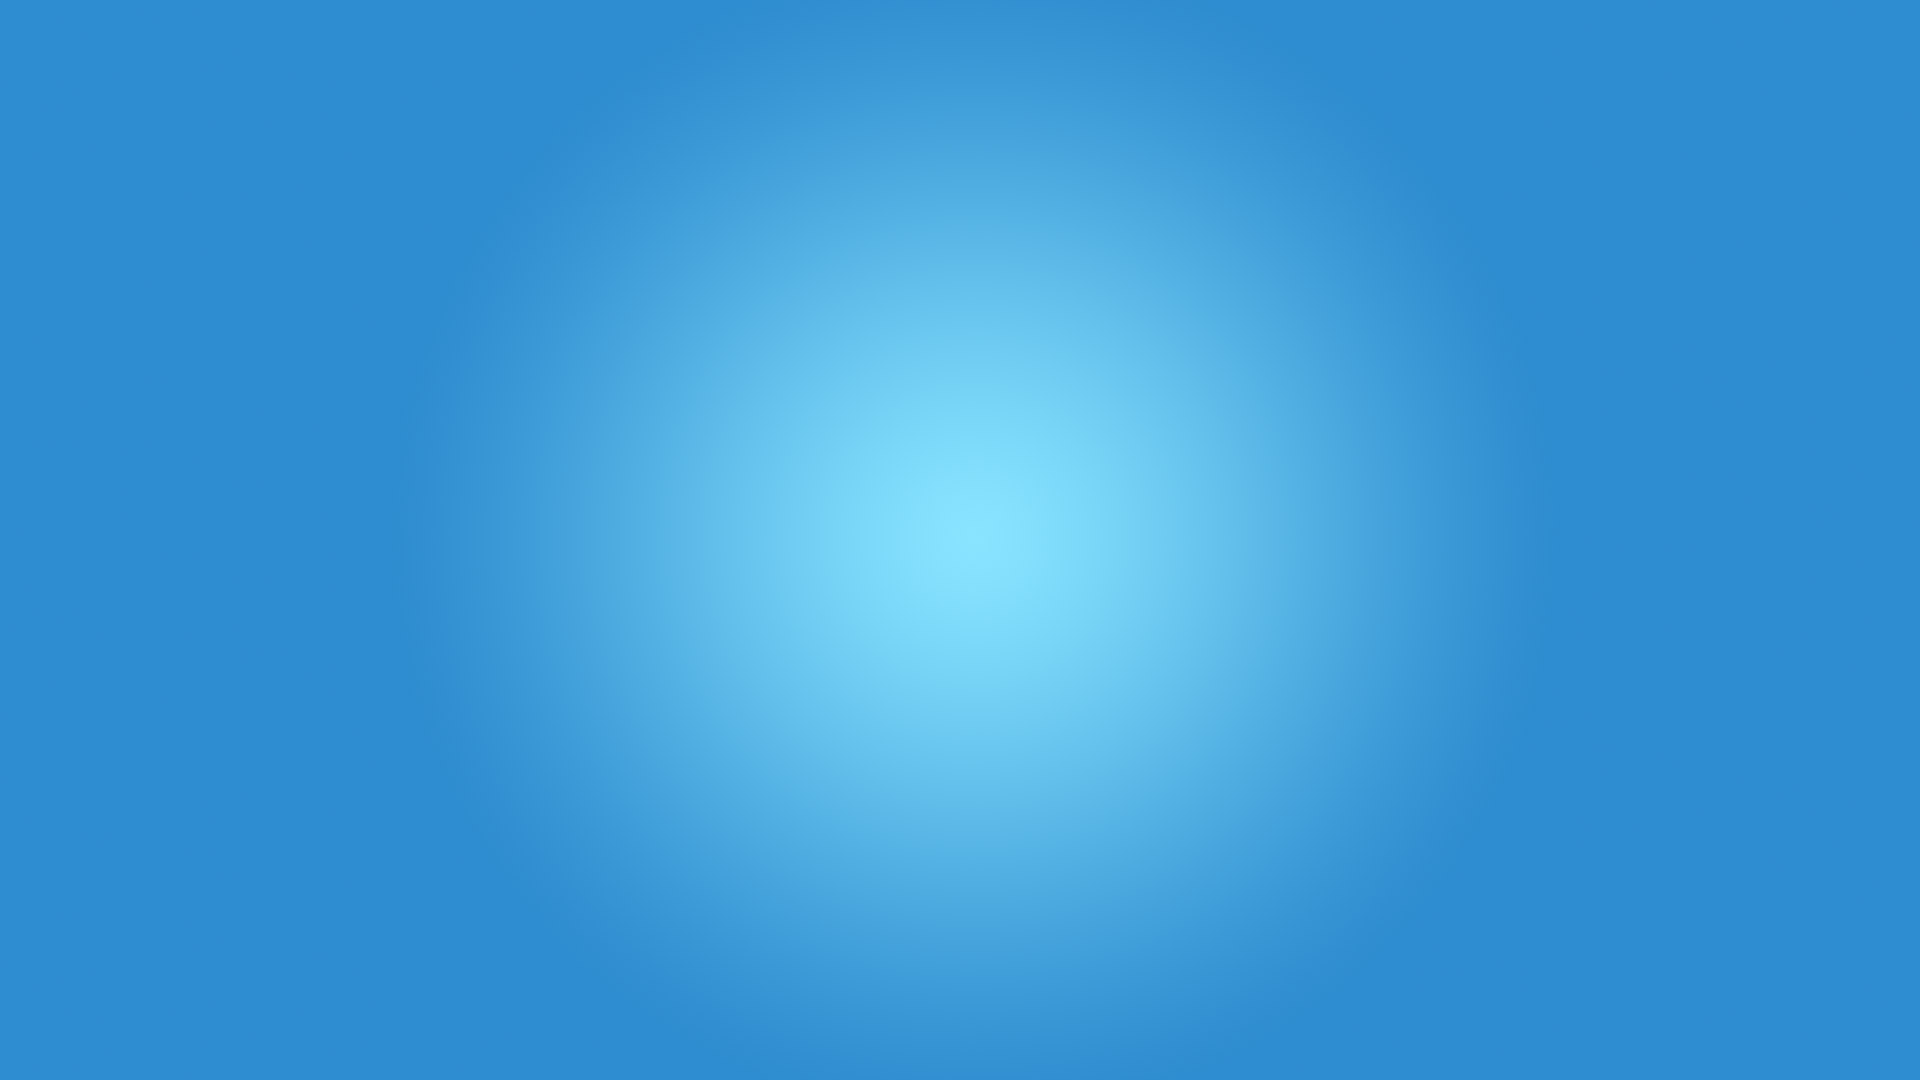
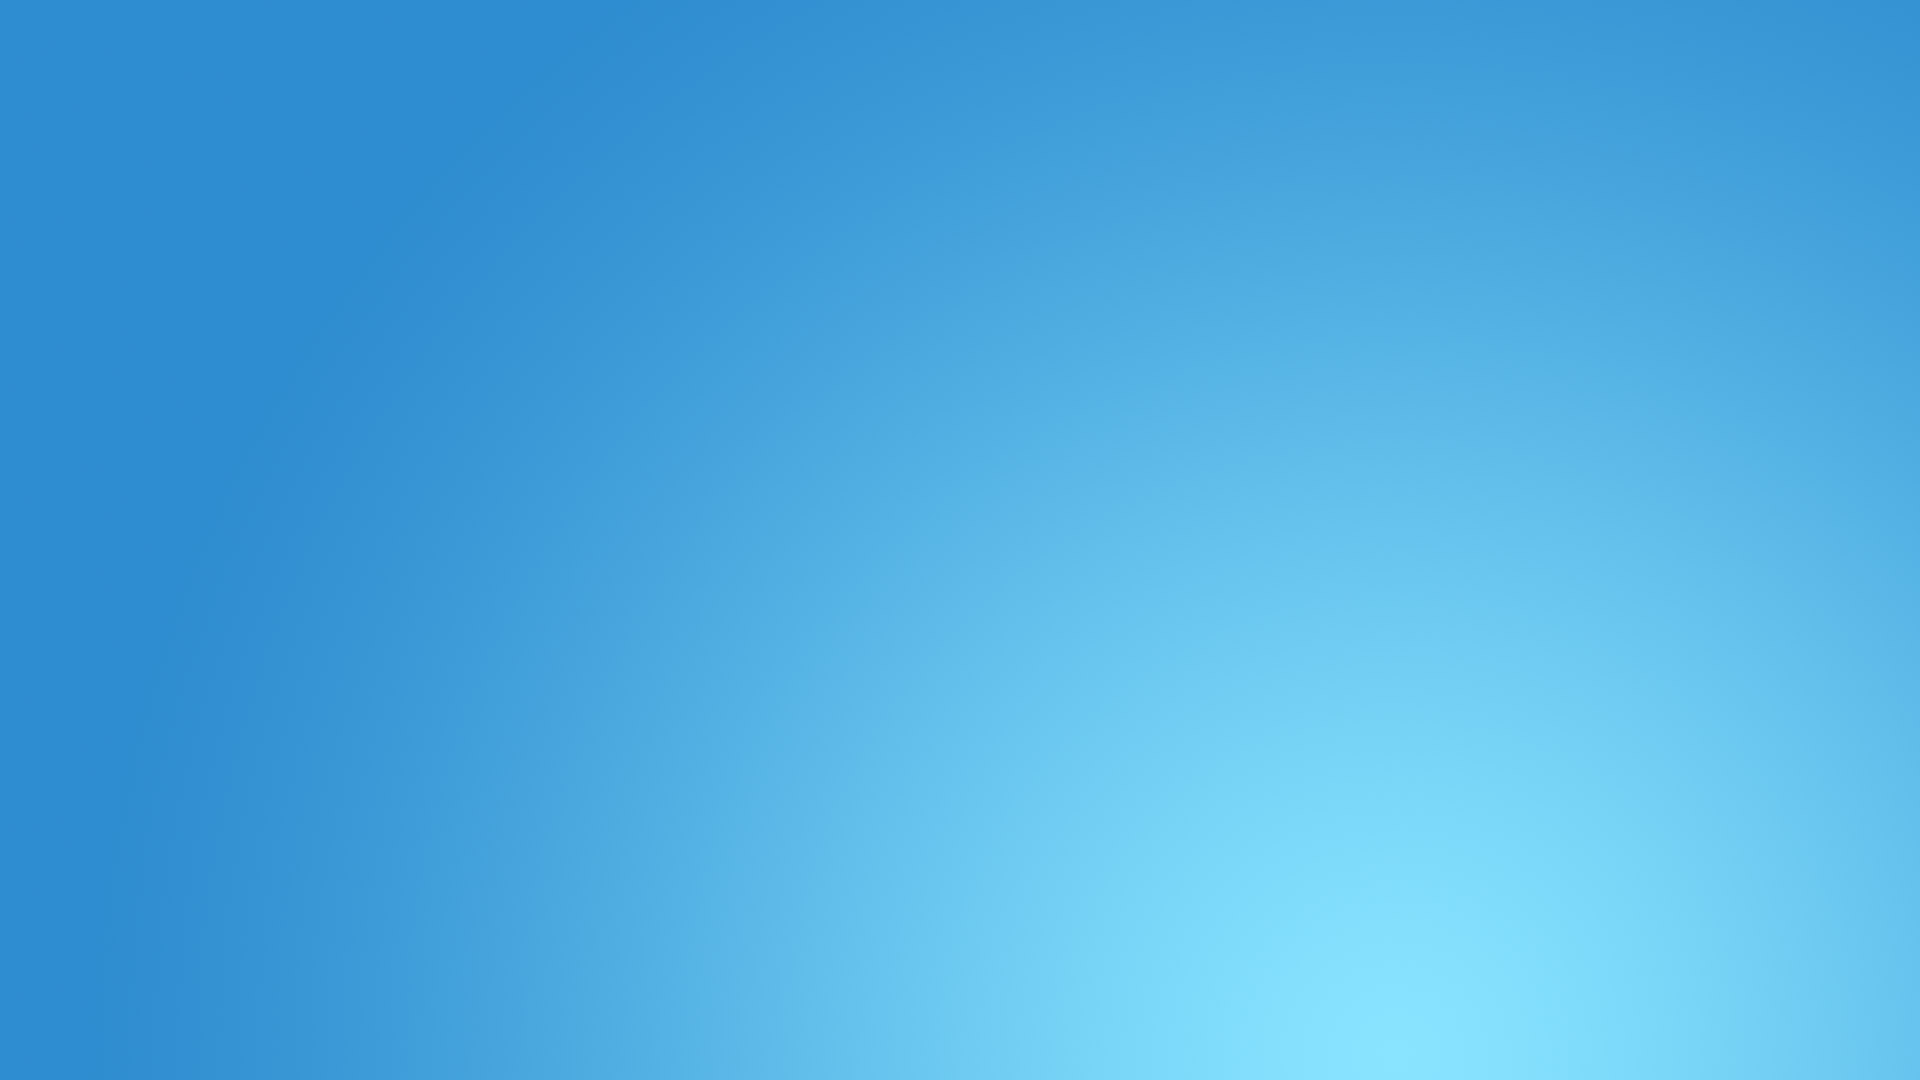
Personal Page changed
Modify the method specified location

diff --git a/personal/index.html b/personal/index.html
@@ -7,8 +7,9 @@
     <link rel="icon" href="resources/favicon.ico" />
     <style type="text/css">
         body {
-            background-image: url(http://voyager2718.github.io/personal/resources/background.jpg);
-            background-repeat:repeat;
+            background-image: url(resources/background.jpg);
+            background-repeat: repeat;
+            background-size: 100%;
         }
 
         p::selection {
@@ -22,13 +23,12 @@
         .menu_sel {
             font-family: Helvetica;
             text-decoration: none;
-            position: absolute;
             color: rgba(255, 255, 255,0.5);
             font-size: 30px;
             top: 55%;
-            animation: menu_sel 0.5s linear alternate infinite;
-            -webkit-animation: menu_sel 0.5s linear alternate infinite;
-            -moz-animation: menu_sel 0.5s linear alternate infinite;
+            animation: menu_sel 0.75s linear alternate infinite;
+            -webkit-animation: menu_sel 0.75s linear alternate infinite;
+            -moz-animation: menu_sel 0.75s linear alternate infinite;
         }
 
         @keyframes menu_sel {
@@ -43,7 +43,7 @@
 
         @-webkit-keyframes menu_sel {
             from {
-                color: rgba(255, 255, 255,0.8);
+                color: rgba(255, 255, 255,0.9);
             }
 
             to {
@@ -53,7 +53,7 @@
 
         @-moz-keyframes menu_sel {
             from {
-                color: rgba(255, 255, 255,0.8);
+                color: rgba(255, 255, 255,0.9);
             }
 
             to {
@@ -66,9 +66,8 @@
             font-weight: 100;
             font-size: 100px;
             color: white;
-            position: absolute;
-            left: 27%;
-            top: 10%;
+            margin-top: 10%;
+            text-align: center;
         }
     </style>
 </head>
@@ -80,11 +79,11 @@
     <a href="http://weibo.com/536449338">
         <img style="height: 25px; margin-left: 5px;" title="Weibo" src="resources/weibo.png" /></a>
     <p class="title">Voyager2718</p>
-    <p style="position: absolute; left: 35%; top: 55%; float: left; width: 150px;">
+    <span style="text-align: center; margin-left:36%;">
         <a class="menu_sel" href="https://github.com/Voyager2718">My GitHub</a>
-    </p>
-    <p style="position: absolute; left: 50%; top: 55%; float: left; width: 250px;">
-        <a class="menu_sel" href="https://github.com/Voyager2718">Personal page</a>
-    </p>
+    </span>
+    <span style="margin-left: 60px;">
+        <a class="menu_sel" href="https://github.com/Voyager2718">Personal Page</a>
+    </span>
 </body>
 </html>
